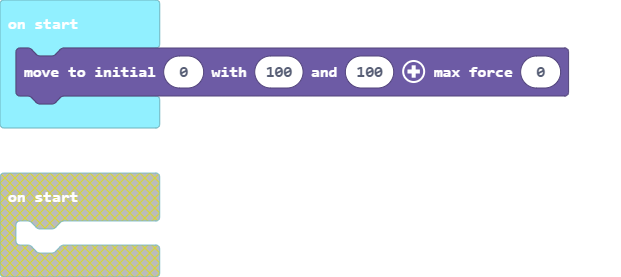
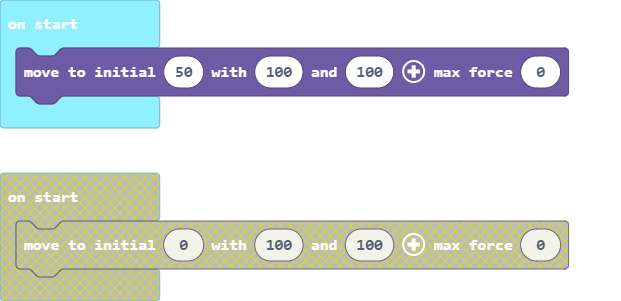
Update pxt.json, main.blocks, main.ts, presskit.ts

Changed region(s): [[0.0, 0.5487, 0.9179, 1.0], [0.0, 0.1444, 0.9179, 0.491], [0.0, 0.0578, 0.1224, 0.1155]]

diff --git a/presskit.ts b/presskit.ts
@@ -3,7 +3,7 @@ namespace presskit {
     //% velocity.defl=100 acceleration.defl=100
     //% inlineInputMode=inline
     export function initialPosition(velocity: number, acceleration: number, position: number, overload: number): void {
-        console.log('presskit.initialPositionnnn')
+        console.log('presskit.initialPosition')
         motion.axis1.move(MoveType.ABSOLUTE, position, velocity, acceleration)
     }
 }

diff --git a/main.ts b/main.ts
@@ -1,1 +1,1 @@
-presskit.initialPosition(100, 100, 0, 0)
+presskit.initialPosition(100, 100, 50, 0)
